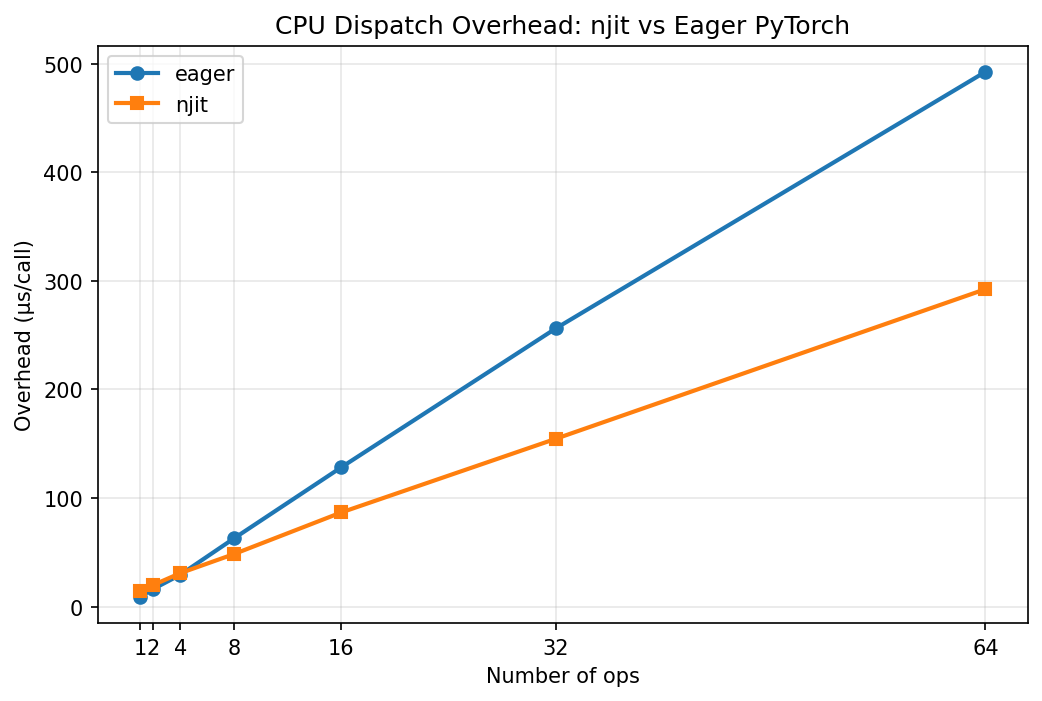
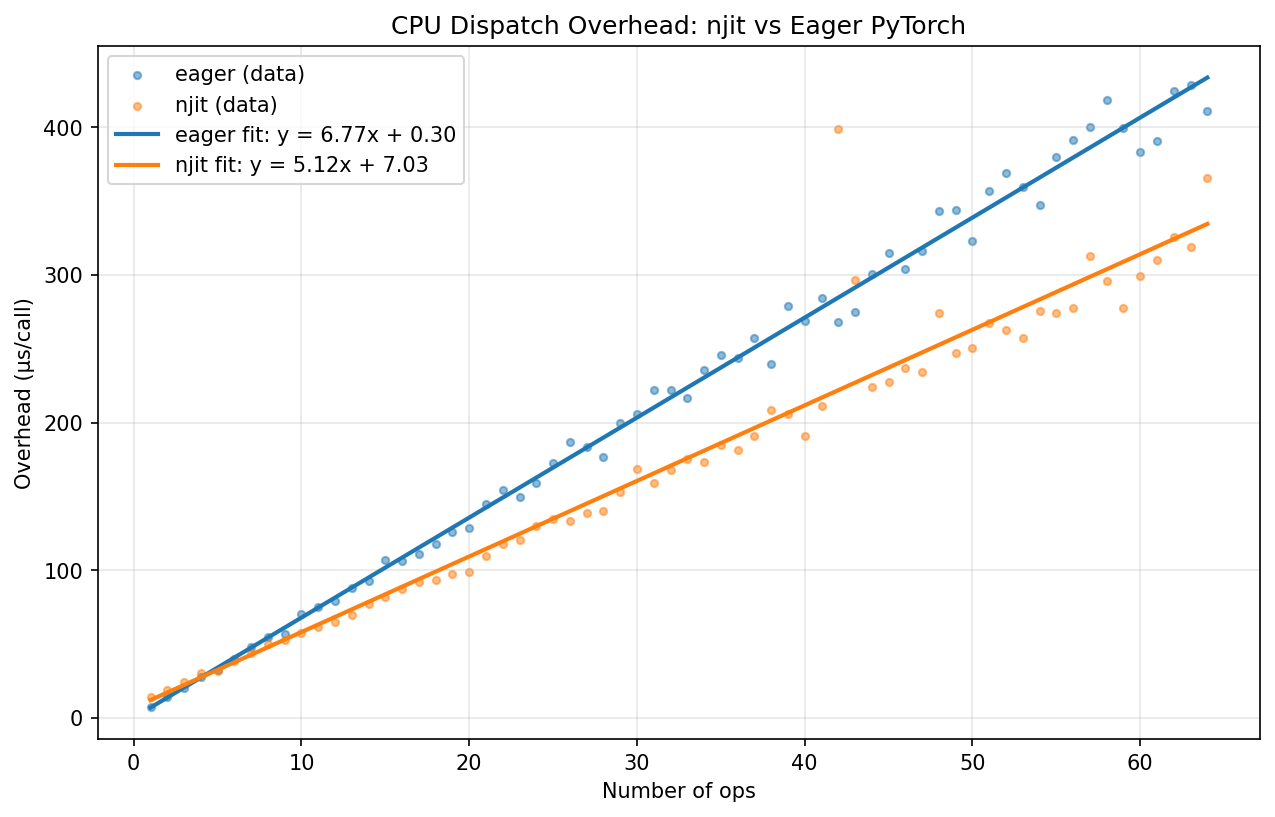
Dense ops range [1,64], linear fit, and auto-generated README
- Use all integers in [1, 64] as op counts for dense data
- Simplify each graph to `for i in range(N): x = torch.relu(x)`
- Remove ratio column from table
- Fit y = k*x + b to both njit and eager data using numpy.polyfit
- Plot scatter data + fit lines with fit equations in legend
- README explains k (per-op cost) and b (fixed overhead)
- run.py auto-generates README.md with table, plot, fit, and env

diff --git a/benchmarks/eager-vs-njit/run.py b/benchmarks/eager-vs-njit/run.py
@@ -23,6 +23,7 @@ import matplotlib
 matplotlib.use("Agg")
 import matplotlib.pyplot as plt  # noqa: E402
 import numba  # noqa: E402
+import numpy as np  # noqa: E402
 import torch  # noqa: E402
 
 import njit_wrappers  # noqa: F401, E402 – registers TensorType
@@ -36,7 +37,8 @@ OUT_DIR = Path(__file__).resolve().parent
 # so we generate a dedicated function for each op count.
 # ---------------------------------------------------------------------------
 
-OP_COUNTS = [1, 2, 4, 8, 16, 32, 64]
+MIN_OPS = 1
+MAX_OPS = 64
 
 
 def _make_graph(n_ops):
@@ -120,7 +122,7 @@ def main():
     times_njit = []
     times_eager = []
 
-    for n_ops in OP_COUNTS:
+    for n_ops in range(MIN_OPS, MAX_OPS + 1):
         graph_fn = _make_graph(n_ops)
         graph_fn_njit = numba.njit(graph_fn)
         # Trigger njit compilation (not timed)
@@ -133,29 +135,57 @@ def main():
         times_njit.append(t_njit)
         times_eager.append(t_eager)
 
+        print(f"  ops={n_ops:3d}  njit={t_njit:8.2f} µs  eager={t_eager:8.2f} µs")
+
+    # -- Linear fits: y = k*x + b --
+    xs = np.array(op_counts, dtype=np.float64)
+    ys_njit = np.array(times_njit, dtype=np.float64)
+    ys_eager = np.array(times_eager, dtype=np.float64)
+
+    k_njit, b_njit = np.polyfit(xs, ys_njit, 1)
+    k_eager, b_eager = np.polyfit(xs, ys_eager, 1)
+
+    print("\nLinear fit  y = k*x + b")
+    print(f"  njit:   k = {k_njit:.4f} µs/op,  b = {b_njit:.4f} µs")
+    print(f"  eager:  k = {k_eager:.4f} µs/op,  b = {b_eager:.4f} µs")
+
     # -- Console table --
-    print(f"CPU overhead on CUDA tiny tensors (4×4), {ITERS} iterations\n")
-    print(f"{'Ops':>4}  {'njit (µs)':>10}  {'eager (µs)':>11}  {'ratio':>6}")
-    print(f"{'----':>4}  {'----------':>10}  {'-----------':>11}  {'------':>6}")
+    print(f"\nCPU overhead on CUDA tiny tensors (4×4), {ITERS} iterations\n")
+    print(f"{'Ops':>4}  {'njit (µs)':>10}  {'eager (µs)':>11}")
+    print(f"{'----':>4}  {'----------':>10}  {'-----------':>11}")
     for i, n_ops in enumerate(op_counts):
-        ratio = times_eager[i] / times_njit[i]
-        print(
-            f"{n_ops:4d}  {times_njit[i]:10.2f}  {times_eager[i]:11.2f}  {ratio:6.2f}×"
-        )
+        print(f"{n_ops:4d}  {times_njit[i]:10.2f}  {times_eager[i]:11.2f}")
 
     # -- Plot --
     plot_name = "overhead_vs_ops.png"
     plot_path = OUT_DIR / plot_name
 
-    fig, ax = plt.subplots(figsize=(8, 5))
-    ax.plot(op_counts, times_eager, "o-", label="eager", linewidth=2, markersize=6)
-    ax.plot(op_counts, times_njit, "s-", label="njit", linewidth=2, markersize=6)
+    fit_xs = np.linspace(MIN_OPS, MAX_OPS, 200)
+    fit_njit = k_njit * fit_xs + b_njit
+    fit_eager = k_eager * fit_xs + b_eager
+
+    fig, ax = plt.subplots(figsize=(10, 6))
+    ax.scatter(op_counts, times_eager, s=12, alpha=0.5, label="eager (data)")
+    ax.scatter(op_counts, times_njit, s=12, alpha=0.5, label="njit (data)")
+    ax.plot(
+        fit_xs,
+        fit_eager,
+        "-",
+        linewidth=2,
+        label=f"eager fit: y = {k_eager:.2f}x + {b_eager:.2f}",
+    )
+    ax.plot(
+        fit_xs,
+        fit_njit,
+        "-",
+        linewidth=2,
+        label=f"njit fit: y = {k_njit:.2f}x + {b_njit:.2f}",
+    )
     ax.set_xlabel("Number of ops")
     ax.set_ylabel("Overhead (µs/call)")
     ax.set_title("CPU Dispatch Overhead: njit vs Eager PyTorch")
     ax.legend()
     ax.grid(True, alpha=0.3)
-    ax.set_xticks(op_counts)
 
     fig.savefig(str(plot_path), dpi=150, bbox_inches="tight")
     plt.close(fig)
@@ -167,9 +197,8 @@ def main():
 
     md_table_rows = []
     for i, n_ops in enumerate(op_counts):
-        ratio = times_eager[i] / times_njit[i]
         md_table_rows.append(
-            f"| {n_ops} | {times_njit[i]:.2f} | {times_eager[i]:.2f} | {ratio:.2f}× |"
+            f"| {n_ops} | {times_njit[i]:.2f} | {times_eager[i]:.2f} |"
         )
     md_table = "\n".join(md_table_rows)
 
@@ -188,8 +217,25 @@ Each graph is simply `for i in range(N): x = torch.relu(x)`.
 
 ![overhead_vs_ops]({plot_name})
 
-| Ops | njit (µs) | eager (µs) | ratio |
-|-----|-----------|------------|-------|
+### Linear fit: `y = k * x + b`
+
+|       | k (µs/op) | b (µs)  |
+|-------|-----------|---------|
+| njit  | {k_njit:.4f}    | {b_njit:.4f}  |
+| eager | {k_eager:.4f}    | {b_eager:.4f}  |
+
+- **k** (slope) is the **per-op cost** — the marginal time (in µs) added by
+  each additional `torch.relu` call.  A smaller *k* means each op dispatches
+  faster.
+- **b** (intercept) is the **fixed overhead** — the baseline time (in µs) for
+  entering and leaving the function, independent of how many ops it contains.
+  This captures things like the Python → njit transition cost or the eager
+  Python function-call overhead.
+
+### Raw data
+
+| Ops | njit (µs) | eager (µs) |
+|-----|-----------|------------|
 {md_table}
 
 > {ITERS} iterations per data point, {WARMUP} warmup iterations.

diff --git a/benchmarks/eager-vs-njit/README.md b/benchmarks/eager-vs-njit/README.md
@@ -10,15 +10,89 @@ Each graph is simply `for i in range(N): x = torch.relu(x)`.
 
 ![overhead_vs_ops](overhead_vs_ops.png)
 
-| Ops | njit (µs) | eager (µs) | ratio |
-|-----|-----------|------------|-------|
-| 1 | 14.44 | 9.00 | 0.62× |
-| 2 | 19.94 | 16.28 | 0.82× |
-| 4 | 30.79 | 29.28 | 0.95× |
-| 8 | 48.34 | 62.76 | 1.30× |
-| 16 | 86.69 | 128.25 | 1.48× |
-| 32 | 154.59 | 256.27 | 1.66× |
-| 64 | 292.30 | 492.45 | 1.68× |
+### Linear fit: `y = k * x + b`
+
+|       | k (µs/op) | b (µs)  |
+|-------|-----------|---------|
+| njit  | 5.1176    | 7.0313  |
+| eager | 6.7711    | 0.2970  |
+
+- **k** (slope) is the **per-op cost** — the marginal time (in µs) added by
+  each additional `torch.relu` call.  A smaller *k* means each op dispatches
+  faster.
+- **b** (intercept) is the **fixed overhead** — the baseline time (in µs) for
+  entering and leaving the function, independent of how many ops it contains.
+  This captures things like the Python → njit transition cost or the eager
+  Python function-call overhead.
+
+### Raw data
+
+| Ops | njit (µs) | eager (µs) |
+|-----|-----------|------------|
+| 1 | 14.21 | 7.59 |
+| 2 | 18.94 | 14.47 |
+| 3 | 24.58 | 20.57 |
+| 4 | 30.18 | 27.81 |
+| 5 | 31.90 | 32.37 |
+| 6 | 38.56 | 39.98 |
+| 7 | 44.10 | 48.21 |
+| 8 | 50.07 | 54.70 |
+| 9 | 52.73 | 57.19 |
+| 10 | 57.87 | 70.47 |
+| 11 | 61.84 | 74.96 |
+| 12 | 64.83 | 79.00 |
+| 13 | 69.49 | 87.95 |
+| 14 | 77.16 | 93.07 |
+| 15 | 82.26 | 106.80 |
+| 16 | 87.04 | 106.06 |
+| 17 | 92.31 | 111.12 |
+| 18 | 93.20 | 117.82 |
+| 19 | 97.81 | 126.29 |
+| 20 | 98.65 | 128.38 |
+| 21 | 109.41 | 145.16 |
+| 22 | 117.56 | 154.13 |
+| 23 | 120.27 | 149.35 |
+| 24 | 129.97 | 158.81 |
+| 25 | 135.02 | 172.62 |
+| 26 | 133.42 | 186.97 |
+| 27 | 139.02 | 183.81 |
+| 28 | 140.00 | 176.95 |
+| 29 | 153.19 | 199.79 |
+| 30 | 168.32 | 205.62 |
+| 31 | 158.86 | 222.18 |
+| 32 | 168.02 | 221.93 |
+| 33 | 175.39 | 216.80 |
+| 34 | 173.03 | 235.95 |
+| 35 | 185.16 | 246.00 |
+| 36 | 181.21 | 243.78 |
+| 37 | 191.25 | 257.40 |
+| 38 | 208.40 | 239.90 |
+| 39 | 205.55 | 279.05 |
+| 40 | 190.76 | 268.64 |
+| 41 | 211.45 | 284.45 |
+| 42 | 399.09 | 268.18 |
+| 43 | 296.32 | 274.86 |
+| 44 | 224.32 | 300.85 |
+| 45 | 227.62 | 314.80 |
+| 46 | 236.74 | 304.25 |
+| 47 | 234.00 | 316.02 |
+| 48 | 274.55 | 343.33 |
+| 49 | 247.45 | 343.80 |
+| 50 | 250.23 | 323.01 |
+| 51 | 267.31 | 357.18 |
+| 52 | 262.64 | 368.74 |
+| 53 | 257.06 | 359.67 |
+| 54 | 275.85 | 347.06 |
+| 55 | 274.28 | 379.86 |
+| 56 | 277.71 | 391.14 |
+| 57 | 312.99 | 400.44 |
+| 58 | 296.02 | 418.31 |
+| 59 | 277.75 | 399.31 |
+| 60 | 299.06 | 383.24 |
+| 61 | 310.24 | 390.44 |
+| 62 | 325.84 | 424.50 |
+| 63 | 318.94 | 428.93 |
+| 64 | 365.73 | 410.94 |
 
 > 1000 iterations per data point, 50 warmup iterations.
 
